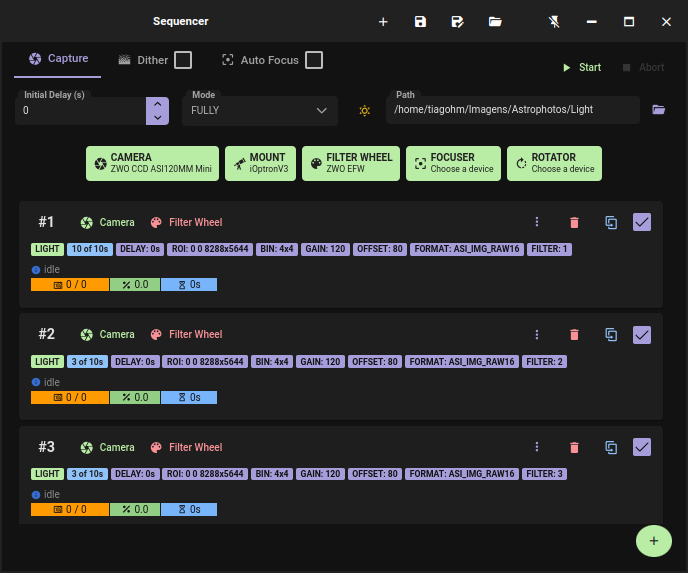
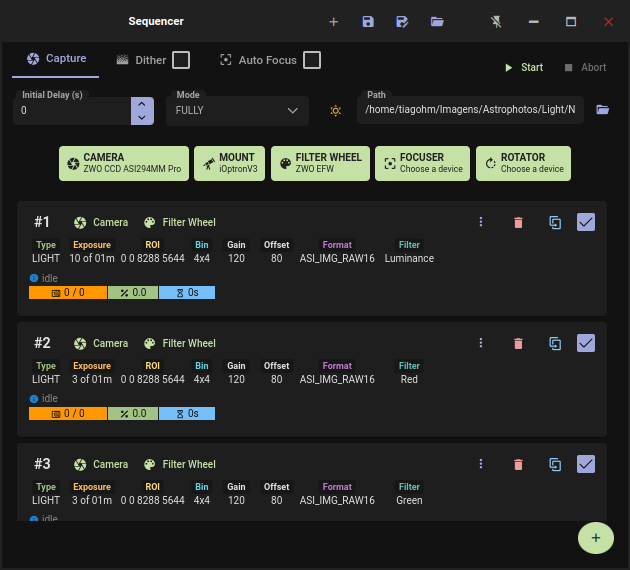
[desktop]: Minor fixes; New screenshots

diff --git a/desktop/src/app/atlas/atlas.component.html b/desktop/src/app/atlas/atlas.component.html
@@ -118,7 +118,7 @@
 									[disabled]="minorPlanetSearchText.length < 3 || refreshing"
 									(onClick)="searchMinorPlanet()"
 									icon="mdi mdi-magnify"
-									severity="success"
+									severity="info"
 									size="small"
 									[text]="true" />
 							</div>
@@ -179,7 +179,7 @@
 									[disabled]="refreshing"
 									(onClick)="closeApproachesForMinorPlanets()"
 									icon="mdi mdi-magnify"
-									severity="success"
+									severity="info"
 									size="small"
 									[text]="true" />
 							</div>
@@ -597,8 +597,8 @@
 		</p-tabPanel>
 	</p-tabView>
 	<div
-		class="col-9 flex align-items-center justify-content-between absolute gap-2"
-		style="height: 32px; left: 90px; top: 2px">
+		class="col-9 flex align-items-center justify-content-between absolute gap-2 overflow-hidden"
+		style="height: 32px; left: 95px; top: 2px; padding-right: 45px;">
 		<p-button
 			[disabled]="!name || refreshing"
 			[text]="true"

diff --git a/desktop/src/shared/components/camera-info/camera-info.component.html b/desktop/src/shared/components/camera-info/camera-info.component.html
@@ -1,18 +1,20 @@
 <div class="flex gap-2 align-items-center flex-wrap">
-	<div class="tag">
+	<div
+		*ngIf="hasType"
+		class="tag">
 		<span class="min-w-3rem">{{ info.frameType }}</span>
 		<label class="text-green-300">Type</label>
 	</div>
 	<div
 		*ngIf="hasExposure && info.exposureTime"
 		class="tag">
-		<span class="min-w-4rem">{{ info.exposureAmount || '∞' }} of {{ info.exposureTime | exposureTime }}</span>
+		<span class="min-w-4rem">{{ info.exposureAmount || '∞' }} / {{ info.exposureTime | exposureTime }}</span>
 		<label class="text-orange-300">Exposure</label>
 	</div>
 	<div
 		*ngIf="info.exposureDelay"
 		class="tag">
-		<span class="min-w-4rem">{{ info.exposureDelay * 1000000 | exposureTime }}</span>
+		<span class="min-w-3rem">{{ info.exposureDelay * 1000000 | exposureTime }}</span>
 		<label class="text-blue-300">Delay</label>
 	</div>
 	<div

diff --git a/desktop/src/app/image/image.component.ts b/desktop/src/app/image/image.component.ts
@@ -852,8 +852,6 @@ export class ImageComponent implements AfterViewInit, OnDestroy {
 	}
 
 	private async loadImageFromOpenImage(data: OpenImage) {
-		console.info('loading image from data: %s', data)
-
 		Object.assign(this.imageData, data)
 
 		// Not clicked on menu item.
@@ -872,9 +870,10 @@ export class ImageComponent implements AfterViewInit, OnDestroy {
 			this.disableCalibration(false)
 		}
 
-		this.clearOverlay()
-
-		return this.loadImage(true)
+		if (data.path) {
+			this.clearOverlay()
+			await this.loadImage(true)
+		}
 	}
 
 	private clearOverlay() {

diff --git a/desktop/src/app/flat-wizard/flat-wizard.component.html b/desktop/src/app/flat-wizard/flat-wizard.component.html
@@ -20,7 +20,10 @@
 				(deviceChange)="wheelChanged()" />
 		</div>
 		<div class="col-12 justify-content-center align-items-center">
-			<neb-camera-info [info]="request.capture" [hasExposure]="false" />
+			<neb-camera-info
+				[info]="request.capture"
+				[hasExposure]="false"
+				[hasType]="false" />
 		</div>
 		<div class="col-12 pt-0 pb-1 text-sm text-gray-400 flex-column flex align-items-center my-1 gap-1 text-center text-xs">
 			<neb-camera-exposure #cameraExposure />

diff --git a/desktop/src/shared/services/browser-window.service.ts b/desktop/src/shared/services/browser-window.service.ts
@@ -80,7 +80,7 @@ export class BrowserWindowService {
 		const factor = camera.height / camera.width
 		const id = `image.${camera.name}`
 		const preference: WindowPreference = { icon: 'image', width: '50%', height: `${factor}w`, resizable: true }
-		const data = { camera, source, capture }
+		const data: OpenImage = { camera, source, capture, path: '' }
 		await this.openWindow({ preference, data, id, path: 'image' })
 		return id
 	}

diff --git a/desktop/src/app/autofocus/autofocus.component.html b/desktop/src/app/autofocus/autofocus.component.html
@@ -19,7 +19,9 @@
 			(deviceChange)="focuserChanged()" />
 	</div>
 	<div class="col-12 justify-content-center align-items-center">
-		<neb-camera-info [info]="request.capture" />
+		<neb-camera-info
+			[info]="request.capture"
+			[hasType]="false" />
 	</div>
 	<div
 		class="col-12 relative pt-0 text-sm text-gray-400 flex align-items-center mt-1 gap-1 text-sm"

diff --git a/desktop/src/app/alignment/alignment.component.html b/desktop/src/app/alignment/alignment.component.html
@@ -29,7 +29,9 @@
 			}
 		</div>
 		<div class="col-12 justify-content-center align-items-center">
-			<neb-camera-info [info]="cameraCaptureRequest" />
+			<neb-camera-info
+				[info]="cameraCaptureRequest"
+				[hasType]="false" />
 		</div>
 		<div
 			class="col-12 relative pt-0 text-sm text-gray-400 flex align-items-center mt-1 gap-1 text-sm"

diff --git a/desktop/src/shared/components/camera-info/camera-info.component.ts b/desktop/src/shared/components/camera-info/camera-info.component.ts
@@ -16,6 +16,9 @@ export class CameraInfoComponent {
 	readonly wheel?: FilterWheel
 
 	@Input()
+	readonly hasType: boolean = true
+
+	@Input()
 	readonly hasExposure: boolean = true
 
 	get hasFilter() {

diff --git a/desktop/src/shared/types/image.types.ts b/desktop/src/shared/types/image.types.ts
@@ -150,6 +150,7 @@ export const EMPTY_IMAGE_PREFERENCE: ImagePreference = {
 }
 
 export interface OpenImage {
+	camera?: Camera
 	path: string
 	source: ImageSource
 	id?: string
